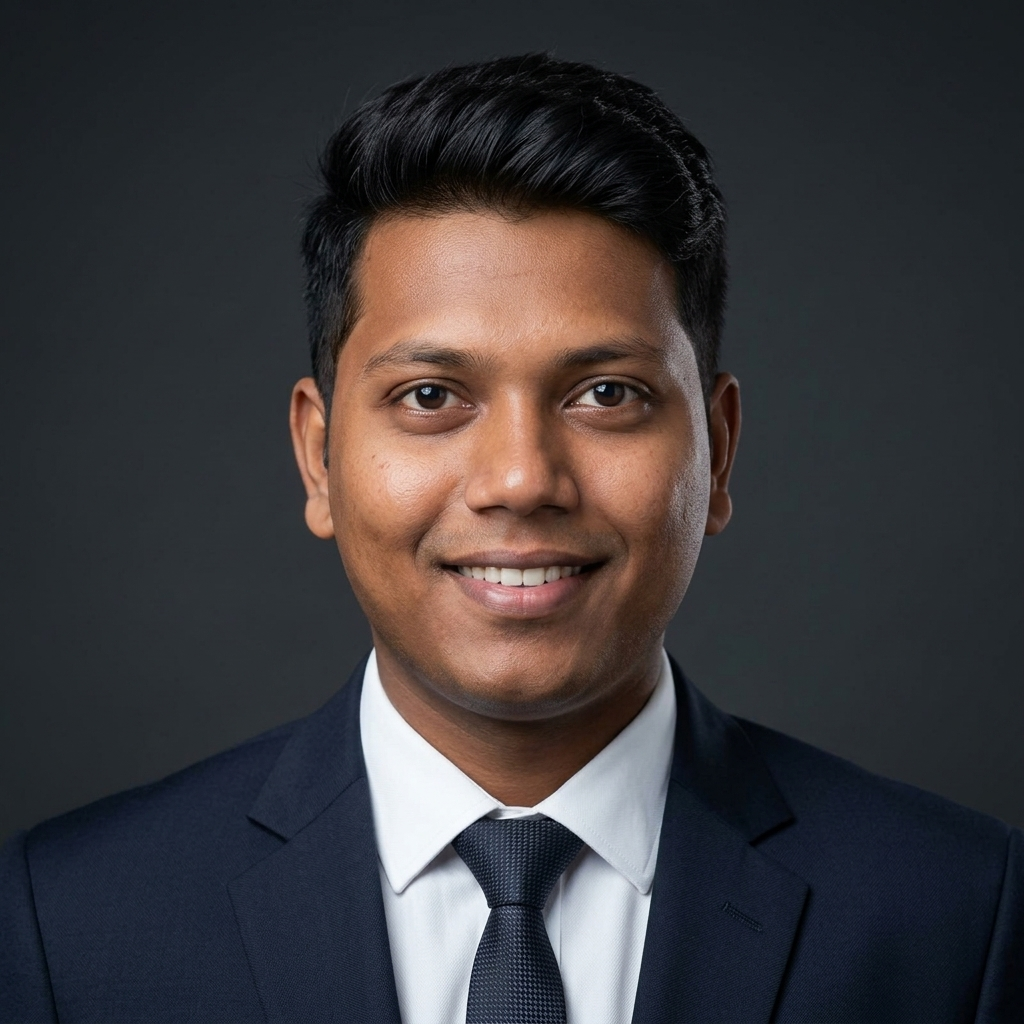
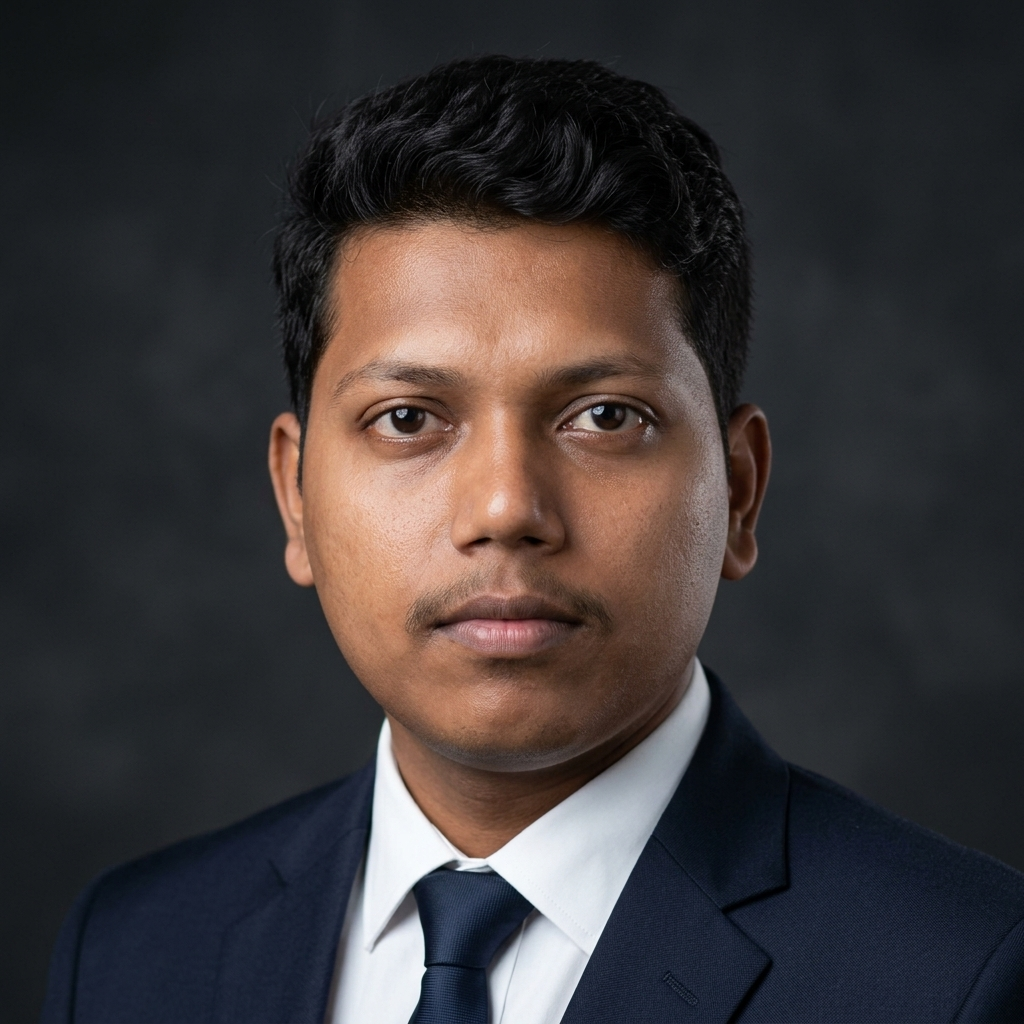
auto-commit for a5715006-da9d-4eea-9fdc-4dcbb0c3efc2

diff --git a/scripts/generate_professional_photo.py b/scripts/generate_professional_photo.py
@@ -1,5 +1,6 @@
-"""Generate two professional headshot variants (front-facing and side/3-4) of
-the user, preserving exact facial identity from the reference selfies."""
+"""Minimal-edit approach: keep the source photo's head/face PIXELS intact and
+only swap the clothing + background. Two variants based on two source poses.
+"""
 import asyncio
 import base64
 import os
@@ -10,72 +11,88 @@ from emergentintegrations.llm.chat import LlmChat, UserMessage, ImageContent
 
 load_dotenv("/app/backend/.env")
 
-REFS = [
-    Path("/tmp/ref_a.jpg"),  # clear 3/4 front-facing selfie
-    Path("/tmp/anil_original.jpg"),  # original side-facing selfie
-    Path("/tmp/ref_c.jpg"),  # additional reference
-]
 OUT_DIR = Path("/app/frontend/public/assets")
 OUT_DIR.mkdir(parents=True, exist_ok=True)
 
 
-VARIANTS = {
-    "anil_front.png": (
-        "Generate a polished, photorealistic corporate LinkedIn headshot of the "
-        "EXACT same young Indian man shown in the reference selfies. Preserve "
-        "his face, skin tone, eyes, eyebrows, nose, lips, jawline, and hair "
-        "identically — same person, no facial changes. He is facing the camera "
-        "DIRECTLY, looking straight at the lens with a soft confident smile. "
-        "He is wearing a tailored dark navy business suit jacket, crisp white "
-        "dress shirt, and a subtle dark tie. Shoulders square to camera, "
-        "head straight. Background: smooth soft-blurred dark charcoal grey "
-        "studio backdrop. Soft, even, flattering studio lighting with subtle "
-        "rim light. Sharp focus on the face. Natural skin texture (do not "
-        "over-smooth). 1:1 square aspect ratio, high resolution."
+# (output_name, source_image_for_edit, edit_prompt)
+JOBS = [
+    (
+        "anil_front.png",
+        Path("/tmp/ref_a.jpg"),
+        (
+            "Edit THIS exact photograph. CRITICAL: keep the head, face, hair, "
+            "skin tone, expression and identity of the person EXACTLY as they "
+            "appear in the original photo — same pixels in the face/head area, "
+            "NO regeneration of facial features, NO idealization, NO slimming. "
+            "Only modify what is described below: "
+            "1) Remove the phone, hands and arms from the frame. "
+            "2) Replace his orange polo shirt with a tailored dark navy "
+            "business suit jacket worn over a crisp white dress shirt and a "
+            "subtle dark navy tie. Crop the body to show head-and-shoulders "
+            "only. "
+            "3) Replace the bathroom/mirror background with a soft-blurred "
+            "dark charcoal grey studio backdrop. "
+            "4) Apply soft, even, flattering studio lighting on the face. "
+            "Keep the same head angle (slight 3/4 turn, gaze toward camera) "
+            "and the same exact facial features. Photorealistic, sharp focus "
+            "on the face, natural skin texture (do not over-smooth). 1:1 "
+            "square aspect ratio, high resolution."
+        ),
     ),
-    "anil_side.png": (
-        "Generate a polished, photorealistic corporate LinkedIn headshot of the "
-        "EXACT same young Indian man shown in the reference selfies. Preserve "
-        "his face, skin tone, eyes, eyebrows, nose, lips, jawline, and hair "
-        "identically — same person, no facial changes. He is posed at a "
-        "classic 3/4 angle: body turned about 30 degrees to his left, face "
-        "turned slightly back toward the camera with a calm confident "
-        "expression. He is wearing a tailored dark navy business suit jacket, "
-        "crisp white dress shirt, and a subtle dark tie. Background: smooth "
-        "soft-blurred dark charcoal grey studio backdrop. Soft, even, "
-        "flattering studio lighting with subtle rim light on the right side. "
-        "Sharp focus on the face. Natural skin texture (do not over-smooth). "
-        "1:1 square aspect ratio, high resolution."
+    (
+        "anil_side.png",
+        Path("/tmp/anil_original.jpg"),
+        (
+            "Edit THIS exact photograph. CRITICAL: keep the head, face, hair, "
+            "skin tone, expression and identity of the person EXACTLY as they "
+            "appear in the original photo — same pixels in the face/head area, "
+            "NO regeneration of facial features, NO idealization, NO slimming. "
+            "Only modify what is described below: "
+            "1) Remove the phone, hands and arms from the frame. "
+            "2) Replace his orange polo shirt with a tailored dark navy "
+            "business suit jacket worn over a crisp white dress shirt and a "
+            "subtle dark navy tie. Crop the body to show head-and-shoulders "
+            "only. "
+            "3) Replace the bathroom/mirror background with a soft-blurred "
+            "dark charcoal grey studio backdrop. "
+            "4) Apply soft, even, flattering studio lighting on the face. "
+            "Keep the same head angle (looking to the side) and the same "
+            "exact facial features. Photorealistic, sharp focus on the face, "
+            "natural skin texture (do not over-smooth). 1:1 square aspect "
+            "ratio, high resolution."
+        ),
     ),
-}
+]
 
 
-async def generate(prompt: str, out: Path):
+async def run_edit(prompt: str, source: Path, out: Path):
     api_key = os.getenv("EMERGENT_LLM_KEY")
-    refs = [
-        ImageContent(base64.b64encode(p.read_bytes()).decode("utf-8"))
-        for p in REFS if p.exists()
-    ]
+    image_b64 = base64.b64encode(source.read_bytes()).decode("utf-8")
     chat = LlmChat(
         api_key=api_key,
-        session_id=f"anil-headshot-{out.stem}",
-        system_message="You are a professional photo retoucher.",
+        session_id=f"anil-edit-v3-{out.stem}",
+        system_message=(
+            "You are a precise photo retoucher. You NEVER change a person's "
+            "face. You only restyle their clothing, crop and background. "
+            "Preserve facial identity at all costs."
+        ),
     )
     chat.with_model("gemini", "gemini-3.1-flash-image-preview").with_params(
         modalities=["image", "text"]
     )
-    msg = UserMessage(text=prompt, file_contents=refs)
+    msg = UserMessage(text=prompt, file_contents=[ImageContent(image_b64)])
     text, images = await chat.send_message_multimodal_response(msg)
     print(f"{out.name}: text={(text or '')[:80]}, images={len(images or [])}")
     if not images:
-        raise RuntimeError("No images returned for " + out.name)
+        raise RuntimeError("No images for " + out.name)
     out.write_bytes(base64.b64decode(images[0]["data"]))
     print(f"Saved -> {out} ({out.stat().st_size} bytes)")
 
 
 async def main():
-    for fname, prompt in VARIANTS.items():
-        await generate(prompt, OUT_DIR / fname)
+    for fname, source, prompt in JOBS:
+        await run_edit(prompt, source, OUT_DIR / fname)
 
 
 if __name__ == "__main__":